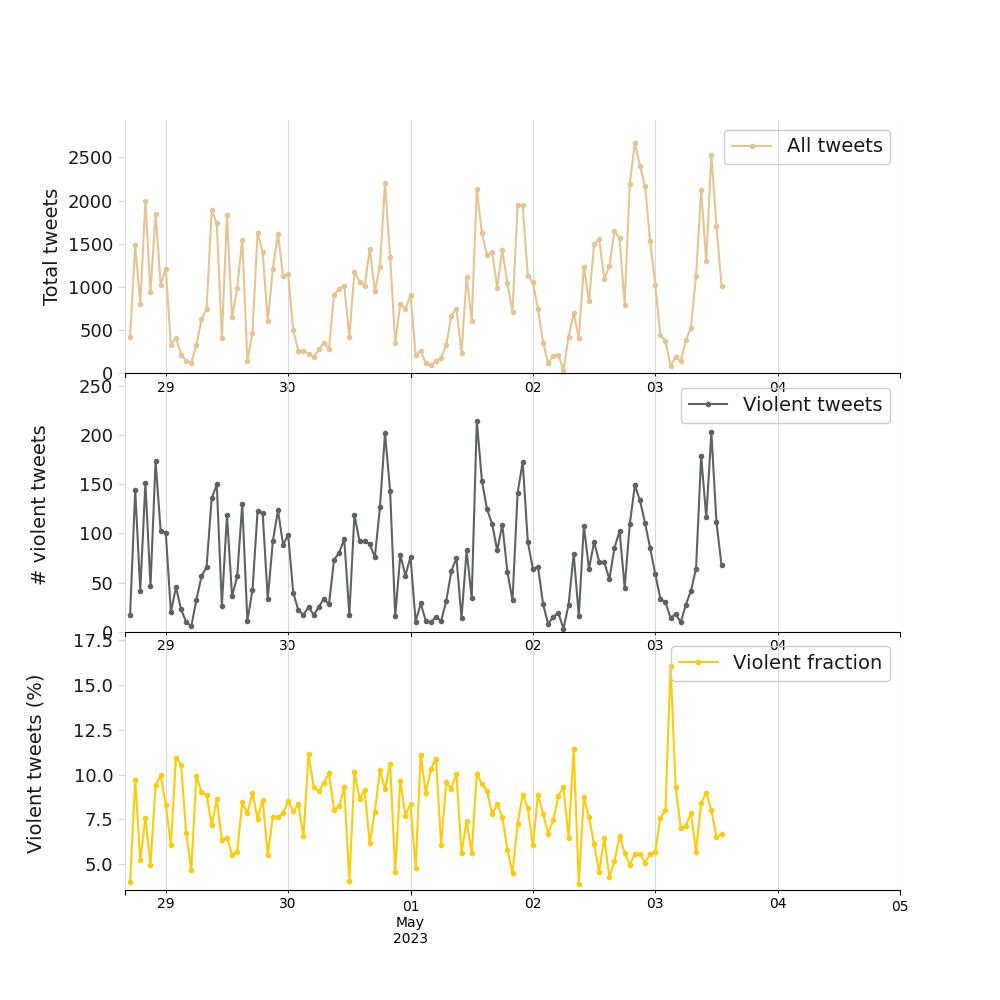
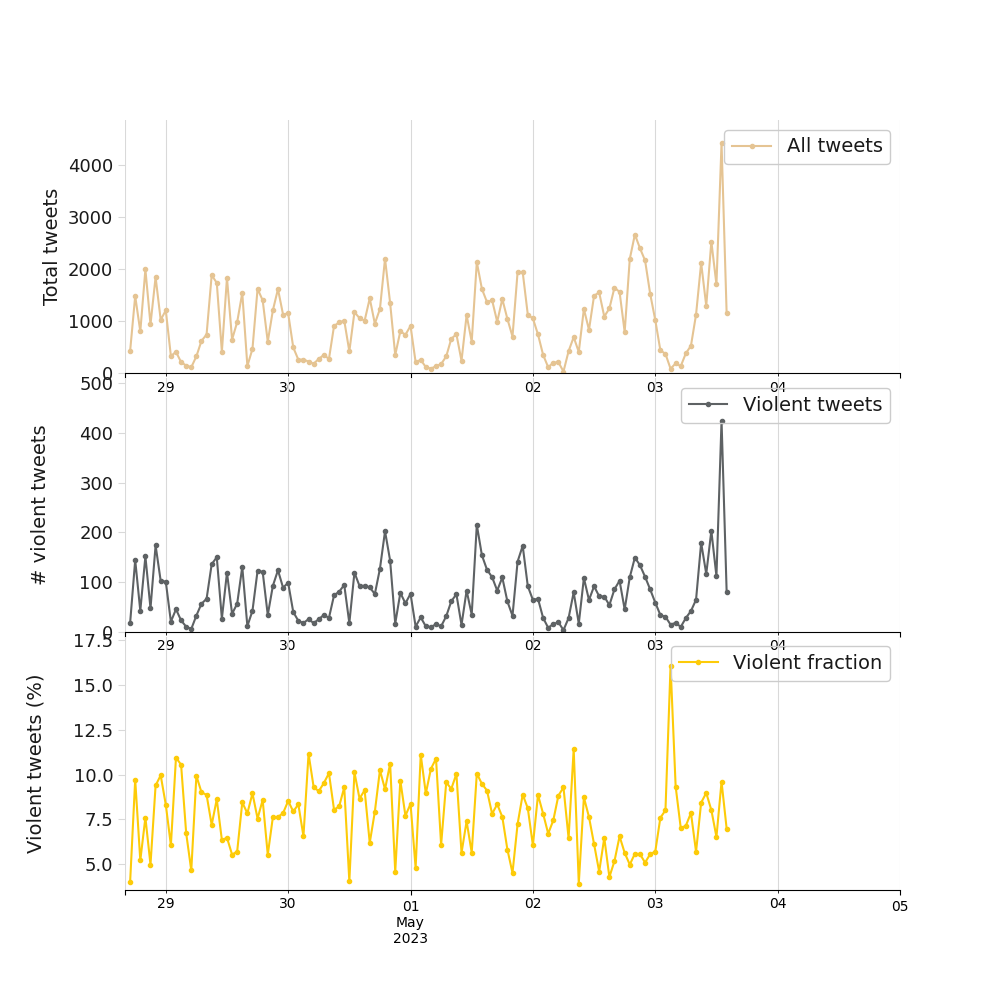
Auto-update webpage data >> 2023-05-03_14:00:09

diff --git a/assets/js/data.js b/assets/js/data.js
@@ -1,1 +1,1 @@
-data = '{"total_counts": 8314, "yesterday_counts": 1604, "time_series_plot": "../../assets/img/graficos/tweets_agressivos_por_dia_feminino.png", "last_update": "2023-05-03T13:00:10"}'
+data = '{"total_counts": 8751, "yesterday_counts": 1604, "time_series_plot": "../../assets/img/graficos/tweets_agressivos_por_dia_feminino.png", "last_update": "2023-05-03T14:00:09"}'
